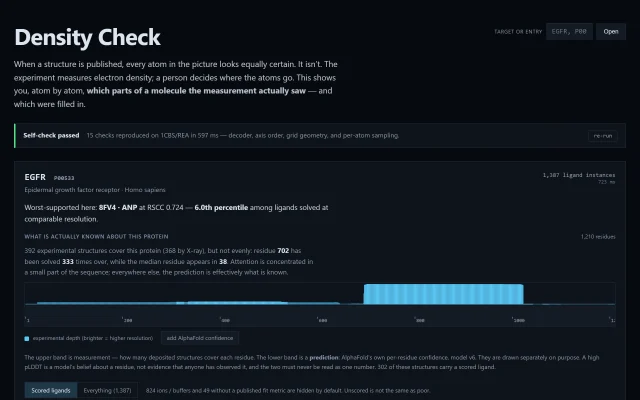
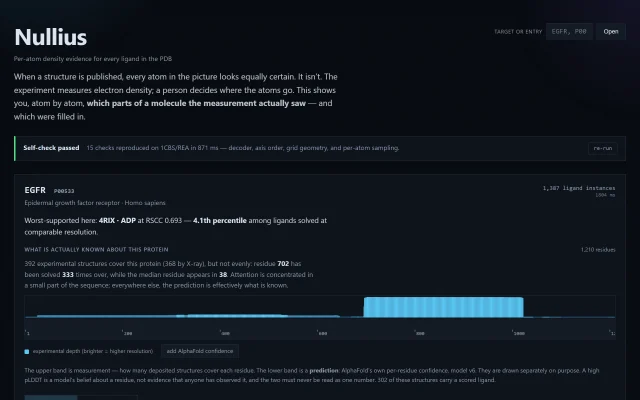
site: Nullius tagline says what it is, thumbnail shows the current app

diff --git a/index.html b/index.html
@@ -708,7 +708,7 @@ try{if(s==='dark'||(!s&&matchMedia('(prefers-color-scheme: dark)').matches))docu
             <div class="ir-no">02</div>
             <div class="ir-name">
               <h3><a href="https://bpachter.github.io/nullius/" target="_blank" rel="noopener">Nullius</a></h3>
-              <div class="ir-tagline">Take nobody's word for it</div>
+              <div class="ir-tagline">Per-atom density evidence for PDB ligands</div>
               <div class="chips"><span class="chip">TypeScript</span><span class="chip">BinaryCIF decoder</span><span class="chip">WebGL point clouds</span><span class="chip">RDKit WASM</span><span class="chip">AlphaFold</span><span class="chip">1.9M-row index</span><span class="chip">No backend</span></div>
               <a class="ir-shot" href="https://bpachter.github.io/nullius/" target="_blank" rel="noopener" tabindex="-1" aria-hidden="true"><img src="media/shots/nullius.webp" alt="" loading="lazy" width="640" height="400"></a>
             </div>
@@ -1637,4 +1637,5 @@ document.addEventListener('DOMContentLoaded', function () {
 </script>
 </body>
 </html>
+
 
